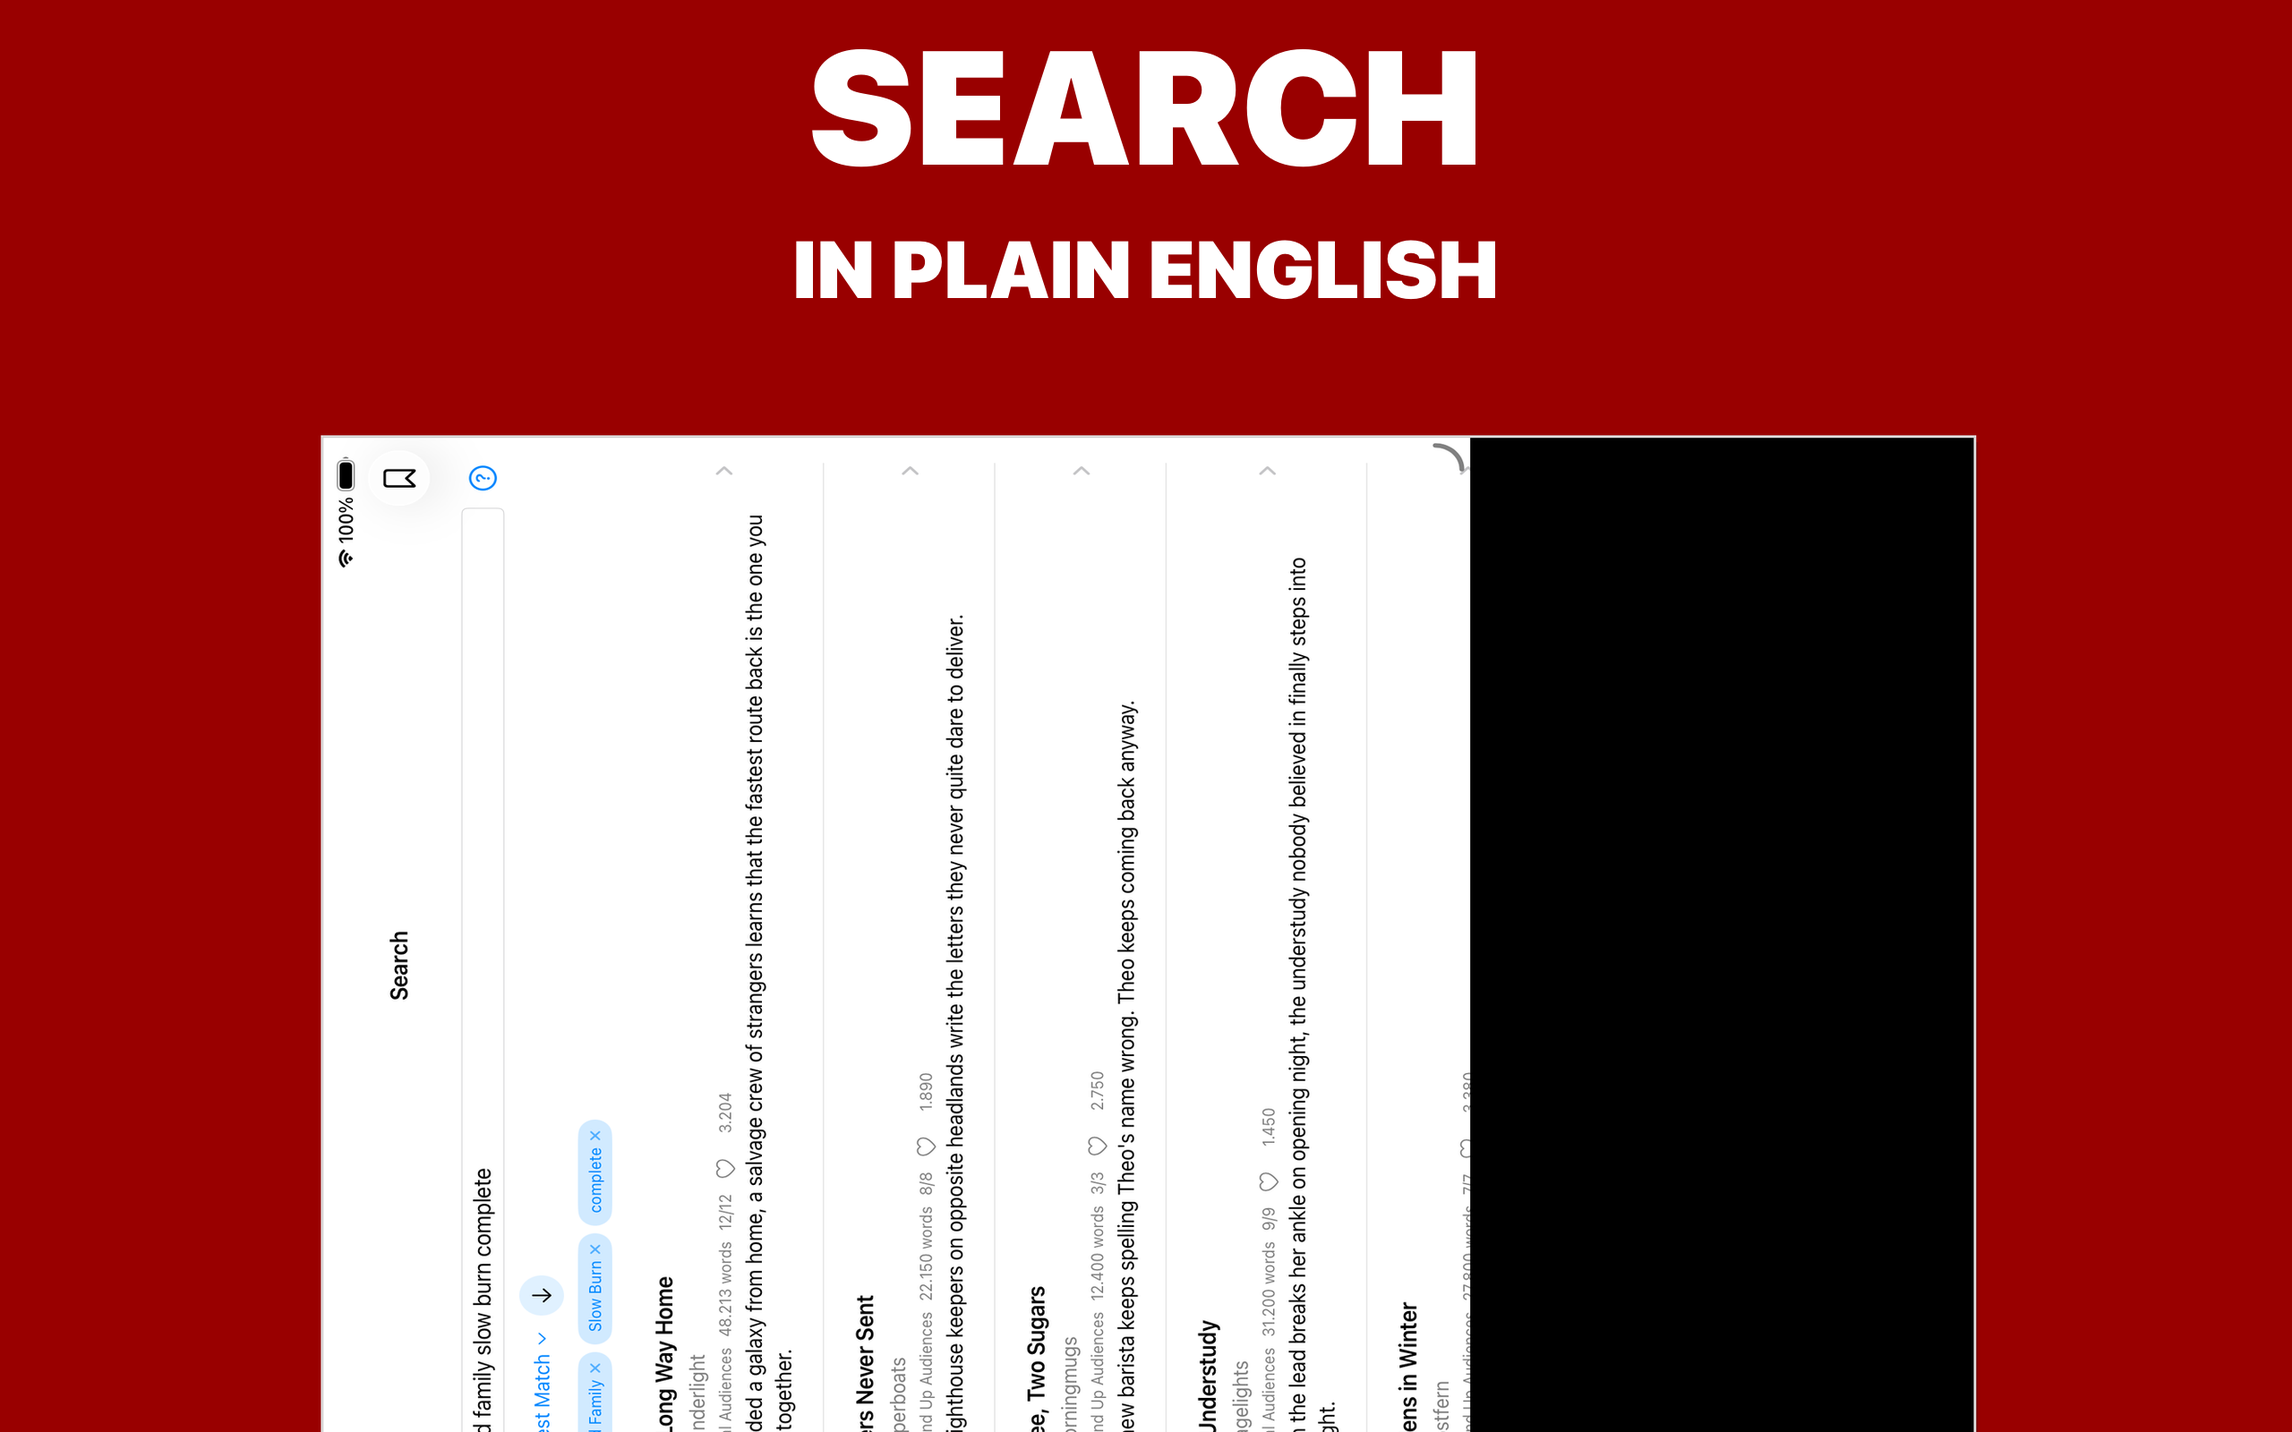
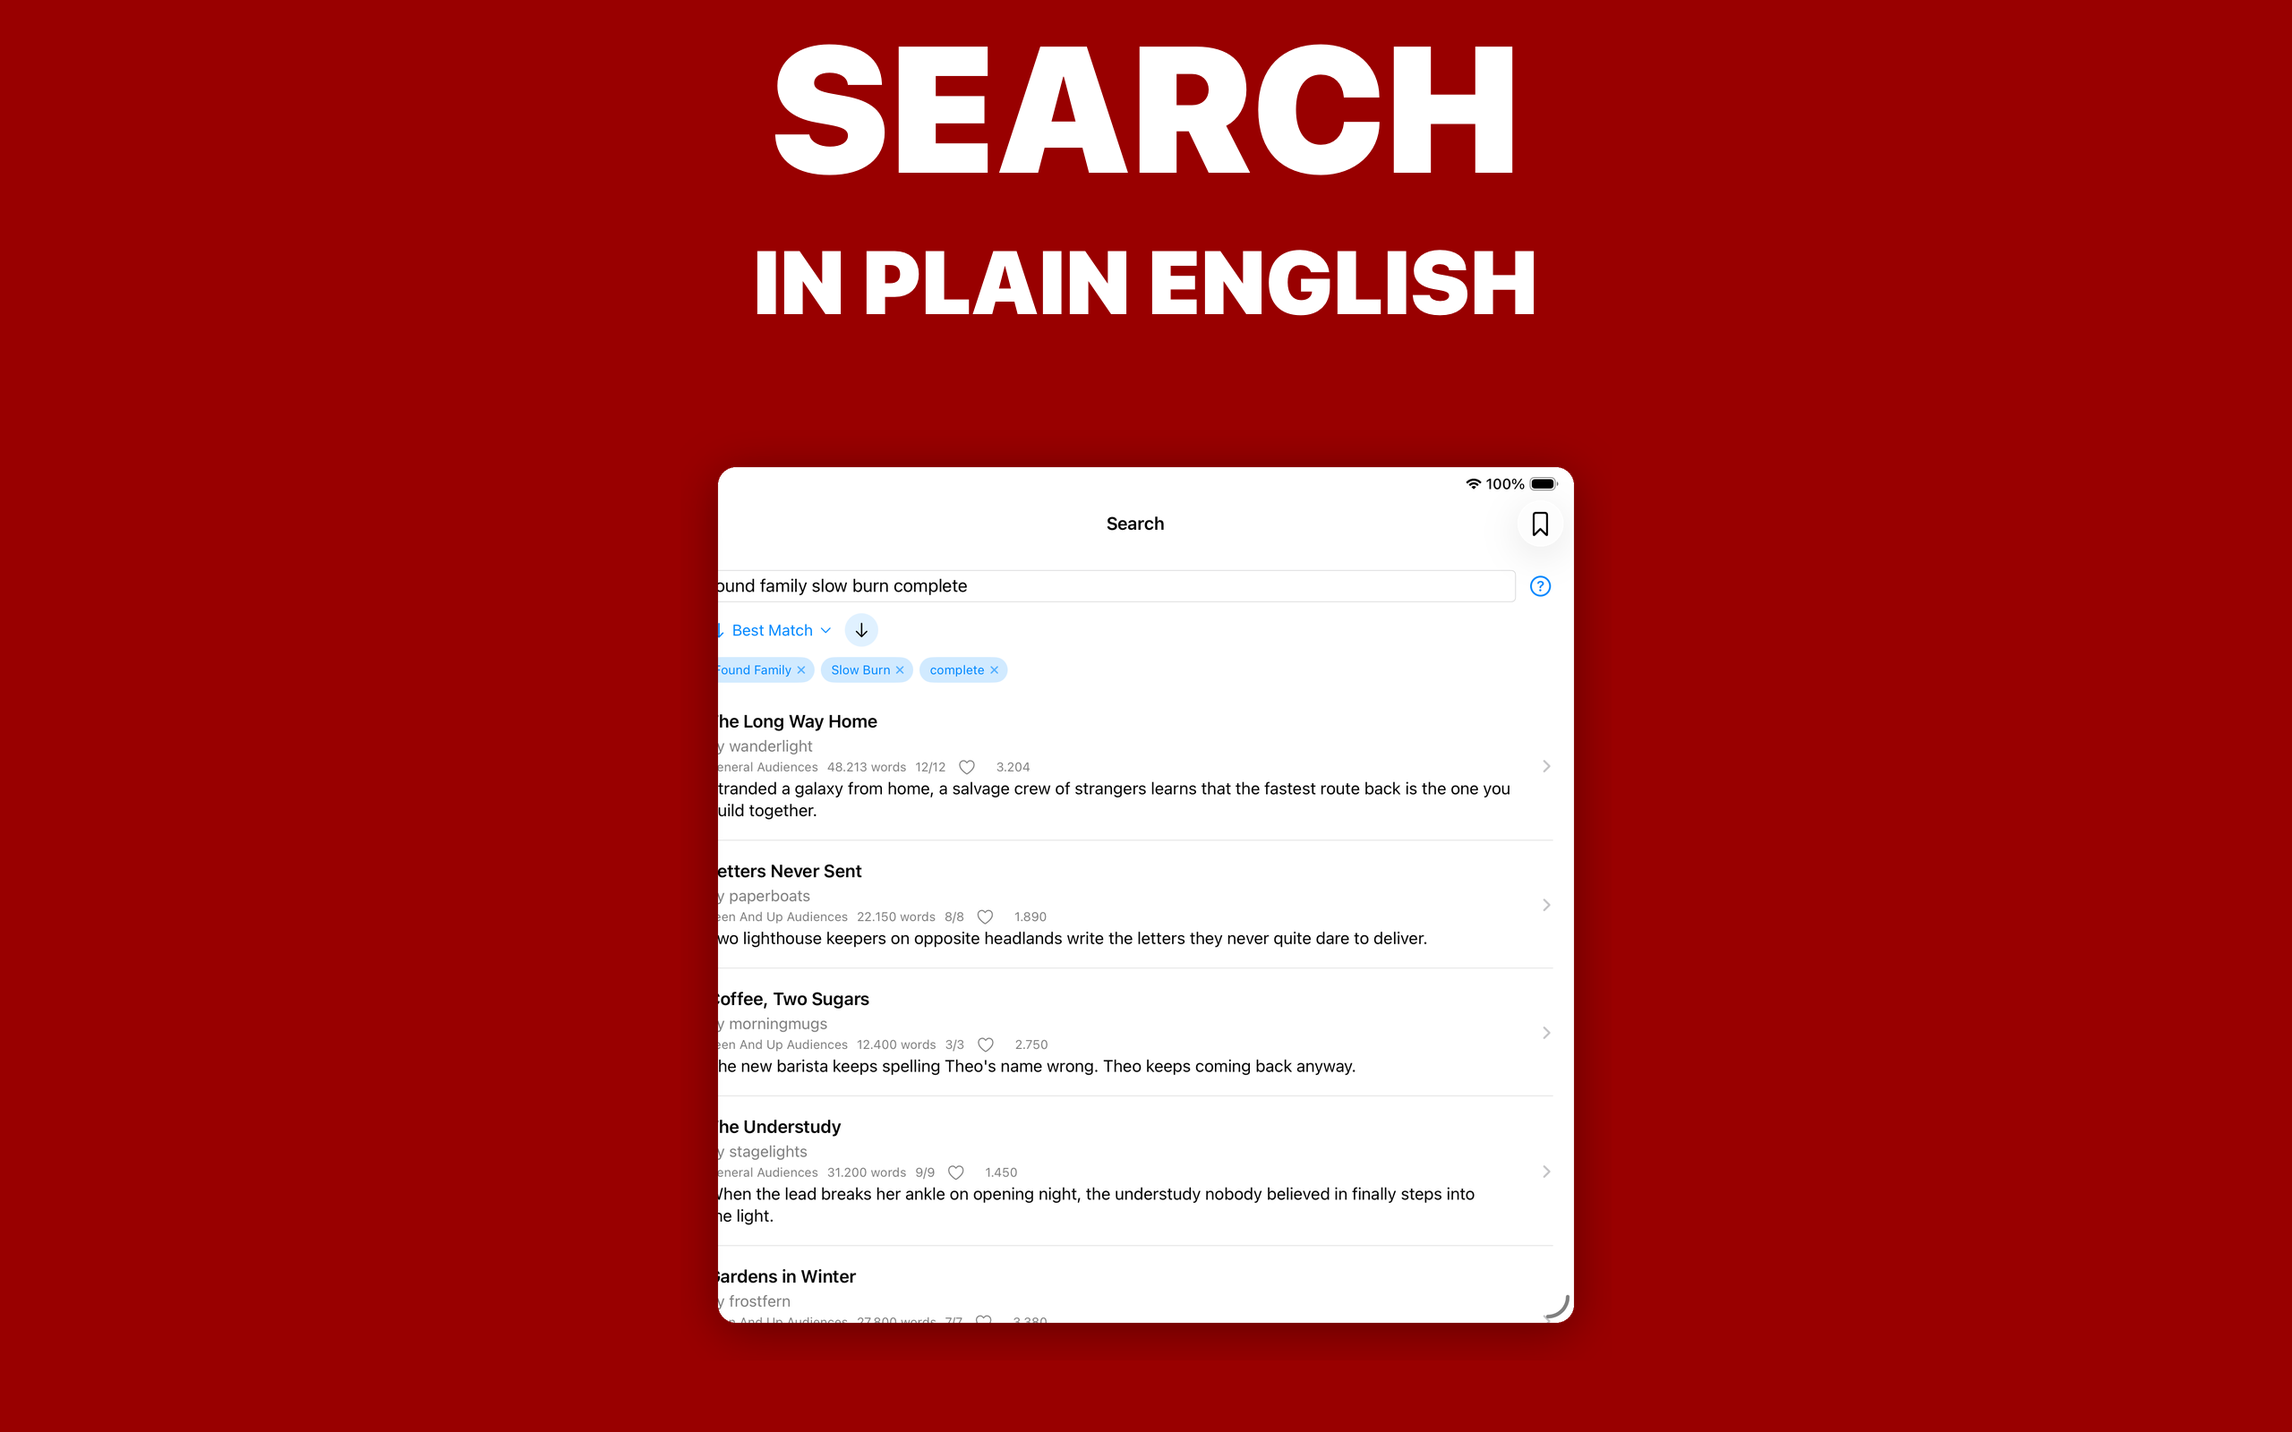
Fix App Store screenshot framing pipeline (EXIF, black-band, Mac window)
frame-screenshots.py now:
- applies EXIF orientation on load — the hand-captured Mac shots were
  stored sideways with an orientation flag the pipeline ignored, which
  produced rotated, aspect-distorted output with a black slab;
- auto-trims the uniform black band off the raw captures;
- frames Mac shots as a rounded floating-window card with a drop shadow,
  scaled to fit the 2560x1600 landscape canvas without clipping (replaces
  the blind resize that distorted the aspect ratio).

Regenerated Mac marketing shots are now upright, undistorted, and clean.
(Capturing the full landscape window WITH the sidebar needs a signed
Mac Catalyst build — ad-hoc can't inject the UI-test bundle and Xcode
isn't signed into an Apple ID — so that's a follow-up.)

Also hardens the screenshot UI test: rotate after launch, and fall back
to a coordinate tap when a split-view sidebar row is present-but-not-
hittable.

diff --git a/FanficlyUITests/ScreenshotTests.swift b/FanficlyUITests/ScreenshotTests.swift
@@ -27,19 +27,27 @@ final class ScreenshotTests: XCTestCase {
         shotDir = ((repoRoot as NSString).appendingPathComponent("docs/screenshots") as NSString)
             .appendingPathComponent(device)
         try FileManager.default.createDirectory(atPath: shotDir, withIntermediateDirectories: true)
-        
-        // Rotate the device BEFORE launching the app so that the app starts up directly in the target orientation
-        XCUIDevice.shared.orientation = orientation
-        
-        // Wait a bit for the device/simulator rotation to complete
-        let rotExp = XCTestExpectation(description: "Wait for simulator rotation")
-        _ = XCTWaiter.wait(for: [rotExp], timeout: 2.0)
-        
+
         app.launch()
-        
-        // Wait non-blockingly for the app to finish launching and render layouts correctly
+
+        // Let the app finish launching before we rotate.
+        let launchExp = XCTestExpectation(description: "Wait for launch")
+        _ = XCTWaiter.wait(for: [launchExp], timeout: 3.0)
+
+        // Rotate AFTER launch. Setting the orientation pre-launch is unreliable —
+        // the scene frequently comes up portrait and ignores the request, which is
+        // what produced the broken (portrait, sidebar-less) "mac" captures. Rotating
+        // the live app reliably relayouts the split view so the sidebar shows in
+        // landscape.
+        if orientation != .portrait {
+            XCUIDevice.shared.orientation = orientation
+            let rotExp = XCTestExpectation(description: "Wait for rotation")
+            _ = XCTWaiter.wait(for: [rotExp], timeout: 3.0)
+        }
+
+        // Wait non-blockingly for the app to settle into the final layout.
         let exp = XCTestExpectation(description: "Wait for layout")
-        _ = XCTWaiter.wait(for: [exp], timeout: 4.0)
+        _ = XCTWaiter.wait(for: [exp], timeout: 3.0)
     }
 
     private func snap(_ name: String) {
@@ -69,7 +77,17 @@ final class ScreenshotTests: XCTestCase {
         let cell = app.collectionViews.staticTexts[title].firstMatch
         let fallback = app.staticTexts[title].firstMatch
         let target = cell.waitForExistence(timeout: 2) ? cell : fallback
-        if target.waitForExistence(timeout: 2) { target.tap(); usleep(800_000) }
+        if target.waitForExistence(timeout: 2) {
+            if target.isHittable {
+                target.tap()
+            } else {
+                // In a persistent split view (landscape iPad / Mac Catalyst) a
+                // sidebar row can report as present but "not hittable"; force a
+                // hit at its center instead of failing the run.
+                target.coordinate(withNormalizedOffset: CGVector(dx: 0.5, dy: 0.5)).tap()
+            }
+            usleep(800_000)
+        }
     }
     private func findSettingsButton() -> XCUIElement {
         let identifier = app.descendants(matching: .any).element(matching: .any, identifier: "reader_settings_button")

diff --git a/bin/frame-screenshots.py b/bin/frame-screenshots.py
@@ -3,21 +3,32 @@
 Frame raw simulator screenshots into App Store marketing images.
 
 Reads the deterministic demo-mode shots captured by
-`FanficlyUITests/ScreenshotTests` from docs/screenshots/{iphone,ipad}/ and
-turns each into a high-converting App Store screenshot: a real Apple device
-frame (via `fastlane frameit`) on a solid brand-violet canvas with a bold
+`FanficlyUITests/ScreenshotTests` from docs/screenshots/{iphone,ipad}/ (and the
+hand-captured Mac shots from docs/screenshots/mac/) and turns each into a
+high-converting App Store screenshot: a real Apple device frame (via
+`fastlane frameit`, for iPhone/iPad) on a solid brand-maroon canvas with a bold
 two-line headline (action verb + benefit). Each image is written to BOTH:
-  - screenshots/final/{iphone,ipad}/   — the tracked marketing set (README)
-  - fastlane/screenshots/en-US/        — what `fastlane deliver` uploads
-…at exact App Store pixel sizes (deliver picks the 6.9"/13" slot by resolution).
+  - screenshots/final/{iphone,ipad,mac}/ — the tracked marketing set (README)
+  - fastlane/screenshots/en-US/          — what `fastlane deliver` uploads
+…at exact App Store pixel sizes (deliver picks the slot by resolution).
 It also (re)builds screenshots/showcase.png — the README hero strip — from the
 first three iPhone shots, so re-running keeps the README assets in sync.
 
 Pipeline per screenshot:
-  1. frameit wraps the raw shot in a genuine Apple bezel → device-on-transparent
-     PNG. (iPad's 13" 2064x2752 isn't in frameit's frame set, so we frame at the
-     supported iPad Pro 12.9" size 2048x2732, then composite onto the 13" canvas.)
-  2. We composite that framed device onto the violet canvas and draw the headline.
+  1. Load the raw shot and apply its EXIF orientation (`exif_transpose`). Some
+     captures — notably the hand-taken Mac shots — store rotated pixels plus an
+     orientation flag; honoring it is what keeps content upright instead of
+     sideways. iPhone/iPad shots have no flag, so this is a harmless no-op there.
+  2a. iPhone/iPad: `frameit` wraps the shot in a genuine Apple bezel → device-on-
+      transparent PNG. (iPad's 13" 2064x2752 isn't in frameit's frame set, so we
+      frame at the supported iPad Pro 12.9" size 2048x2732, then composite onto
+      the 13" canvas.)
+  2b. Mac: the raws are portrait, carry a uniform black band at the bottom, and
+      have no Apple bezel in frameit. We trim the black band and wrap the shot in
+      a rounded-corner "floating window" with a soft drop shadow instead.
+  3. Composite the framed device onto the maroon canvas and draw the headline,
+     scaling the device to fit inside the canvas (never clipped) for landscape
+     Mac sizes.
 
 Run:
     bin/.venv/bin/python bin/frame-screenshots.py     # (or: python3 bin/frame-screenshots.py)
@@ -31,7 +42,7 @@ import os
 import shutil
 import subprocess
 import tempfile
-from PIL import Image, ImageDraw, ImageFont
+from PIL import Image, ImageDraw, ImageFont, ImageFilter, ImageOps
 
 REPO = os.path.dirname(os.path.dirname(os.path.abspath(__file__)))
 RAW = os.path.join(REPO, "docs", "screenshots")
@@ -57,9 +68,11 @@ SLIDES = [
     ("09-tts",             "listen-on-the-go",     "LISTEN",        "ON THE GO"),
 ]
 
-# Per-device geometry. `out_w/out_h` are the exact App Store dimensions we emit;
-# `frame_w/frame_h` are what we feed frameit (must be a size frameit has a frame
-# for — iPad 13" has none, so we frame at 12.9" and composite onto the 13" canvas).
+# Per-device geometry. `out_w/out_h` are the exact App Store dimensions we emit.
+# iPhone/iPad go through frameit, so they carry `frame_w/frame_h` (a size frameit
+# has a frame for — iPad 13" has none, so we frame at 12.9" and composite onto the
+# 13" canvas). Mac doesn't use frameit; `fit=True` makes compose() scale the
+# floating window to fit inside the landscape canvas so it's never clipped.
 DEVICES = {
     "iphone": dict(out_w=1320, out_h=2868, frame_w=1320, frame_h=2868,
                    text_top=0.045, verb_max=232, verb_min=120, desc=116,
@@ -67,10 +80,78 @@ DEVICES = {
     "ipad":   dict(out_w=2064, out_h=2752, frame_w=2048, frame_h=2732,
                    text_top=0.052, verb_max=300, verb_min=150, desc=150,
                    dev_w=0.70, dev_top=0.300),
-    "mac":    dict(out_w=2560, out_h=1600, frame_w=1920, frame_h=1200,
-                   text_top=0.060, verb_max=180, verb_min=100, desc=90,
-                   dev_w=0.75, dev_top=0.280),
+    "mac":    dict(out_w=2560, out_h=1600,
+                   text_top=0.060, verb_max=200, verb_min=110, desc=100,
+                   dev_w=0.62, dev_top=0.300, fit=True),
 }
+
+
+def load_raw(path):
+    """Open a raw shot upright: apply any EXIF orientation, then drop the flag.
+
+    Hand-captured Mac shots store rotated pixels + an orientation tag; PIL reads
+    the raw (sideways) pixels unless we transpose. iPhone/iPad shots have no tag,
+    so this returns them unchanged.
+    """
+    return ImageOps.exif_transpose(Image.open(path))
+
+
+def trim_black_band(img, thresh=60):
+    """Crop a uniform near-black band off the bottom and right edges.
+
+    The Mac captures pad the real content (top-left) with a solid black band.
+    We scan inward from each edge and crop the contiguous fully-dark margin,
+    auto-adapting to whatever the band height happens to be.
+    """
+    rgb = img.convert("RGB")
+    w, h = rgb.size
+    px = rgb.load()
+    fracs = (0.1, 0.2, 0.3, 0.4, 0.5, 0.6, 0.7, 0.8, 0.9)
+
+    bottom = h
+    for y in range(h - 1, -1, -1):
+        if all(sum(px[int(w * f), y][:3]) < thresh for f in fracs):
+            bottom = y
+        else:
+            break
+
+    right = w
+    for x in range(w - 1, -1, -1):
+        if all(sum(px[x, int(h * f)][:3]) < thresh for f in fracs):
+            right = x
+        else:
+            break
+
+    if bottom < h or right < w:
+        return img.crop((0, 0, right, bottom))
+    return img
+
+
+def float_frame(content, radius=34, pad=72, shadow_blur=44, shadow_alpha=95, shadow_dy=14):
+    """Wrap an upright screenshot in a rounded-corner card with a soft drop shadow.
+
+    Used for the Mac set in place of an Apple device bezel: the result reads as a
+    clean floating app window on the brand canvas. Returns RGBA with transparent
+    padding around the card so the shadow has room to bleed.
+    """
+    img = content.convert("RGBA")
+    w, h = img.size
+
+    mask = Image.new("L", (w, h), 0)
+    ImageDraw.Draw(mask).rounded_rectangle([0, 0, w - 1, h - 1], radius=radius, fill=255)
+    rounded = Image.new("RGBA", (w, h), (0, 0, 0, 0))
+    rounded.paste(img, (0, 0), mask)
+
+    canvas = Image.new("RGBA", (w + 2 * pad, h + 2 * pad), (0, 0, 0, 0))
+    shadow = Image.new("RGBA", canvas.size, (0, 0, 0, 0))
+    ImageDraw.Draw(shadow).rounded_rectangle(
+        [pad, pad + shadow_dy, pad + w, pad + h + shadow_dy], radius=radius,
+        fill=(0, 0, 0, shadow_alpha))
+    shadow = shadow.filter(ImageFilter.GaussianBlur(shadow_blur))
+
+    out = Image.alpha_composite(canvas, shadow)
+    out.alpha_composite(rounded, (pad, pad))
+    return out
 
 
 def wrap(draw, text, font, max_w):
@@ -131,6 +212,13 @@ def compose(g, verb, desc, framed_path, out_path):
     dev = Image.open(framed_path).convert("RGBA")
     tw = int(W * g["dev_w"])
     th = int(dev.height * tw / dev.width)
+    # Landscape (Mac) canvases are shorter than a portrait device, so clamp the
+    # device to the space below the headline — never let it spill off the canvas.
+    if g.get("fit"):
+        max_h = int(H * (1.0 - g["dev_top"]) - H * 0.05)
+        if th > max_h:
+            th = max_h
+            tw = int(dev.width * th / dev.height)
     dev = dev.resize((tw, th), Image.LANCZOS)
     layer = Image.new("RGBA", (W, H), (0, 0, 0, 0))
     layer.alpha_composite(dev, ((W - tw) // 2, int(H * g["dev_top"])))
@@ -171,7 +259,8 @@ def main():
         final_dir = os.path.join(FINAL, device)
         os.makedirs(final_dir, exist_ok=True)
         work = tempfile.mkdtemp(prefix=f"frameit-{device}-")
-        # Stage slug-named (and frame-sized) screenshots for frameit.
+        # Stage slug-named screenshots, upright and (for frameit devices) at the
+        # exact frame size. Mac stays at native aspect — no distortion.
         staged = []
         for i, (base, out_slug, verb, desc) in enumerate(SLIDES, start=1):
             raw = os.path.join(src, f"{base}.png")
@@ -179,8 +268,10 @@ def main():
                 print(f"  missing {raw}")
                 continue
             slug = f"{i:02d}-{out_slug}"
-            shot = Image.open(raw).convert("RGB")
-            if shot.size != (g["frame_w"], g["frame_h"]):
+            shot = load_raw(raw).convert("RGB")
+            if device == "mac":
+                shot = trim_black_band(shot)
+            elif shot.size != (g["frame_w"], g["frame_h"]):
                 shot = shot.resize((g["frame_w"], g["frame_h"]), Image.LANCZOS)
             shot.save(os.path.join(work, f"{slug}.png"))
             staged.append((slug, verb, desc))
@@ -190,23 +281,11 @@ def main():
         if device != "mac":
             run_frameit(work)
         else:
-            # For mac, we manually build a framed appearance by adding a window border and a drop shadow
+            # No Apple bezel for Mac — wrap each upright shot in a floating
+            # rounded-window card with a drop shadow.
             for slug, verb, desc in staged:
-                raw_shot_path = os.path.join(work, f"{slug}.png")
-                shot = Image.open(raw_shot_path).convert("RGBA")
-                border = 3
-                # Create a transparent padding for shadow
-                padded = Image.new("RGBA", (shot.width + 80, shot.height + 80), (0, 0, 0, 0))
-                # Soft drop shadow: draw a dark gray rectangle shifted down-right
-                shadow = Image.new("RGBA", (shot.width, shot.height), (0, 0, 0, 60))
-                padded.alpha_composite(shadow, (48, 48))
-                
-                # Draw simple window frame/border (simulating a macOS light/dark titlebar border)
-                bordered_shot = Image.new("RGBA", (shot.width + border * 2, shot.height + border * 2), (210, 210, 210, 255))
-                bordered_shot.paste(shot, (border, border))
-                padded.alpha_composite(bordered_shot, (40, 40))
-                
-                padded.save(os.path.join(work, f"{slug}_framed.png"))
+                shot = Image.open(os.path.join(work, f"{slug}.png"))
+                float_frame(shot).save(os.path.join(work, f"{slug}_framed.png"))
         for slug, verb, desc in staged:
             framed = os.path.join(work, f"{slug}_framed.png")
             final_out = os.path.join(final_dir, f"{slug}.png")
